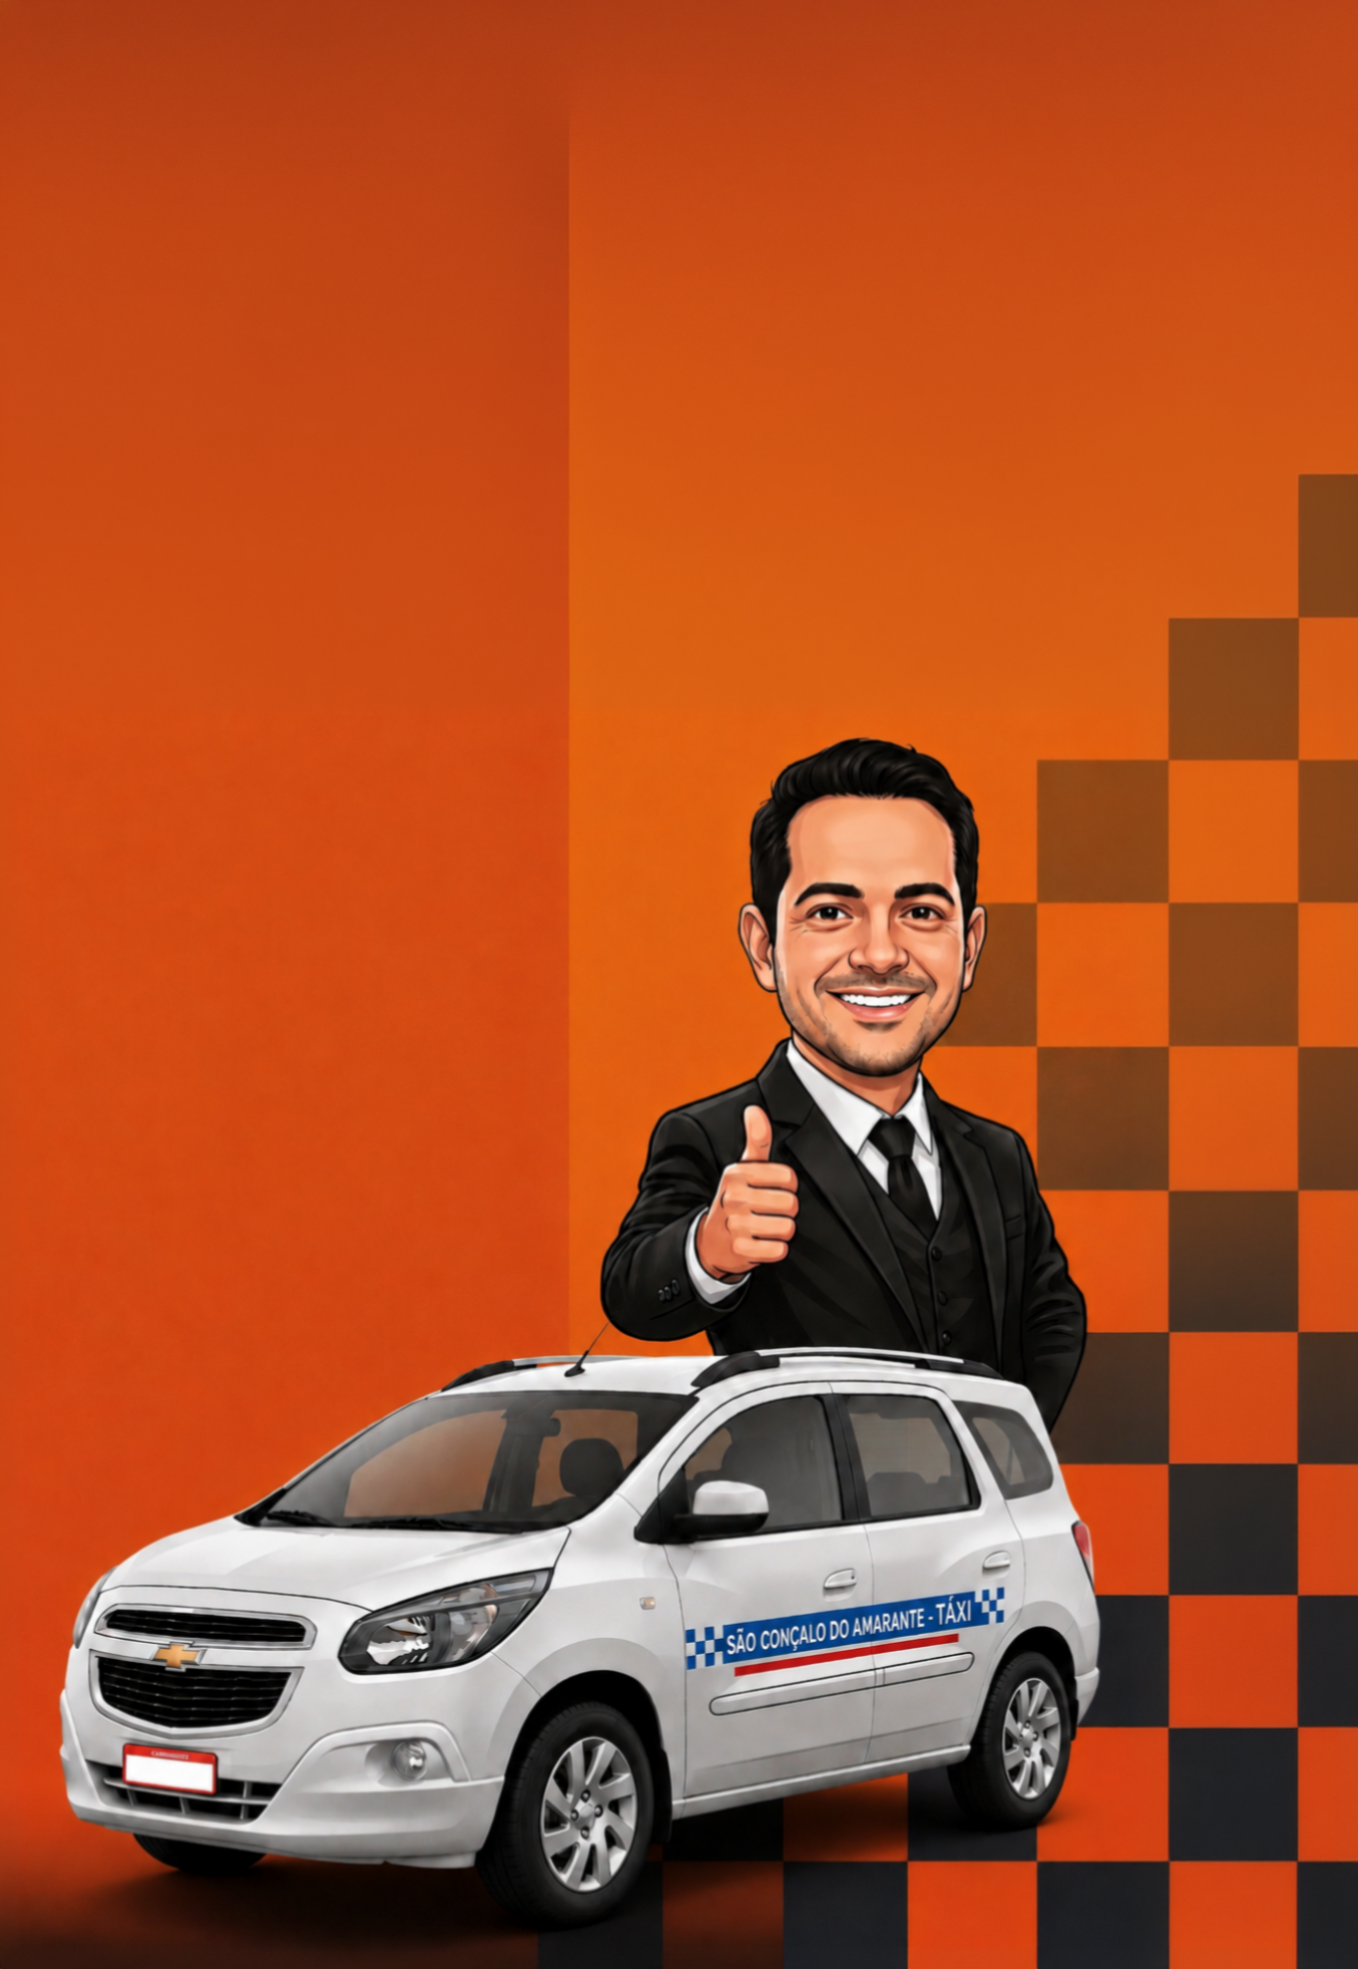
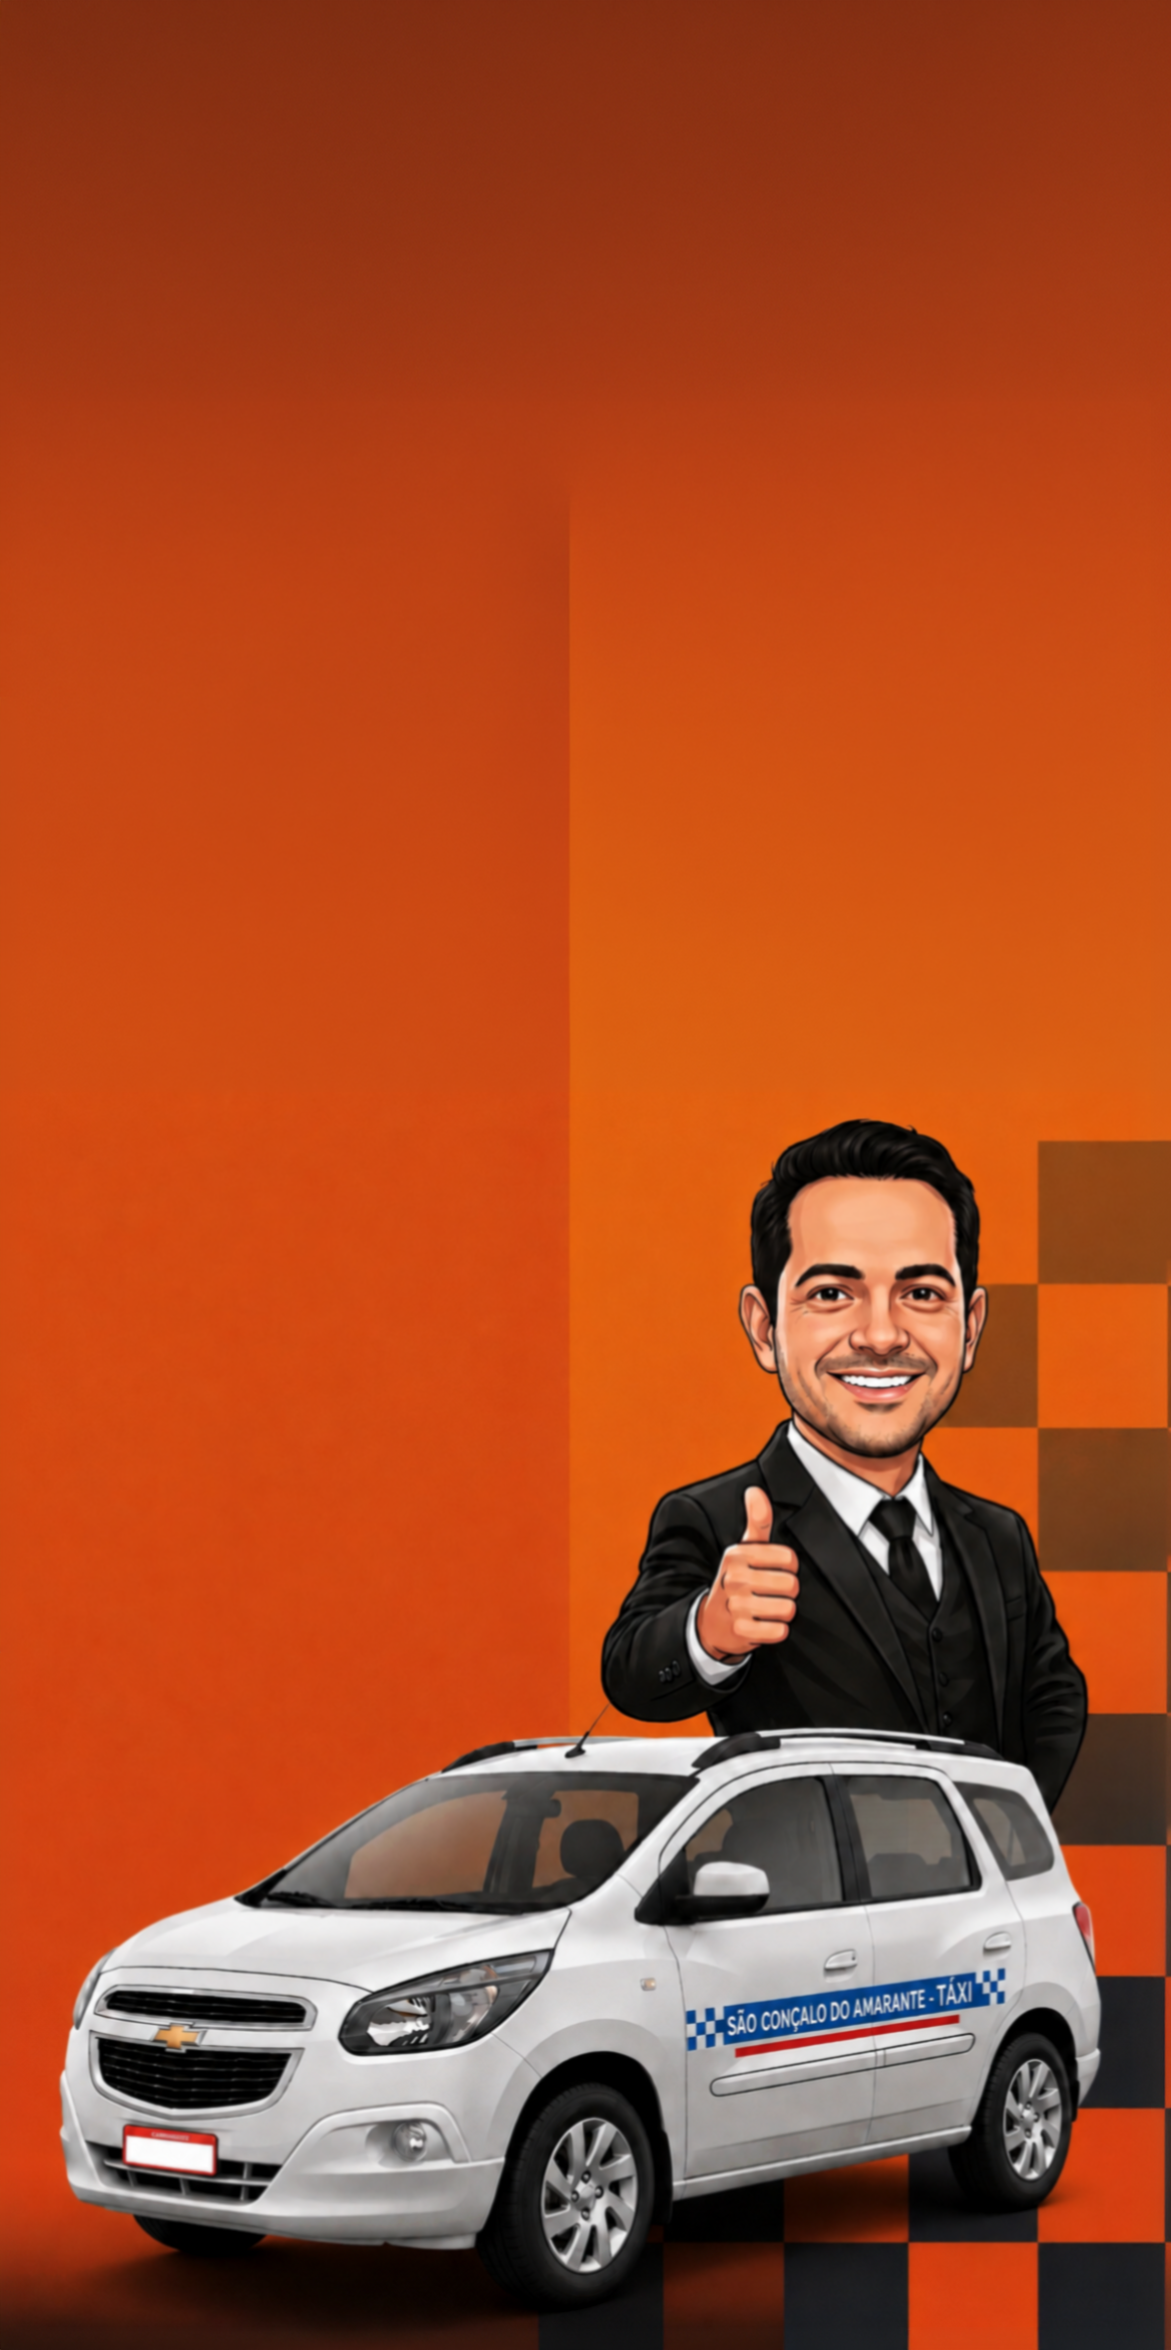
fix: update hero section background for mobile

diff --git a/src/App.css b/src/App.css
@@ -125,7 +125,7 @@ body {
   width: 100%;
 }
 
-/* BOTÃO ÚNICO DE DESTANQUE NO HEADER */
+/* BOTÃO ÚNICO DE DESTAQUE NO HEADER */
 .btn-orange-header {
   background: linear-gradient(135deg, #f97316 0%, #ea580c 100%);
   color: #ffffff;
@@ -148,7 +148,7 @@ body {
   transform: translateY(1px) scale(0.97);
 }
 
-/* HERO SECTION */
+/* HERO SECTION - CONFIGURAÇÃO DESKTOP */
 .hero-section {
   position: relative;
   min-height: 100vh;
@@ -156,9 +156,10 @@ body {
   padding-bottom: 80px;
   display: flex;
   align-items: center;
-  background-image: url('/images/glay-hero.png');
+  background-image: url('/images/Glay-hero.png');
   background-size: cover;
   background-position: center;
+  background-repeat: no-repeat;
 }
 
 .hero-overlay {
@@ -167,7 +168,7 @@ body {
   left: 0;
   width: 100%;
   height: 100%;
-  background: linear-gradient(90deg, rgba(11, 13, 15, 0.95) 0%, rgba(11, 13, 15, 0.85) 45%, rgba(11, 13, 15, 0.6) 100%);
+  background: linear-gradient(90deg, rgba(11, 13, 15, 0.95) 0%, rgba(11, 13, 15, 0.7) 45%, rgba(11, 13, 15, 0.1) 100%);
   z-index: 1;
 }
 
@@ -527,7 +528,7 @@ body {
   color: #ffffff;
 }
 
-/* WIDGET DO CARTÃO DE VISITAS FÍSICO (INSPIRADO NO DESIGN REAL DO CLIENTE) */
+/* WIDGET DO CARTÃO DE VISITAS FÍSICO (INSPIRADO DO DESIGN REAL DO CLIENTE) */
 .business-card-widget {
   background: #141a22;
   border: 1px solid #252e3c;
@@ -772,6 +773,16 @@ body {
 }
 
 @media (max-width: 768px) {
+  .hero-section {
+    background-image: url('/images/glay-heromobile.png');
+    background-position: center;
+
+  }
+
+  .hero-overlay {
+    background: linear-gradient(180deg, rgba(11, 13, 15, 0.95) 0%, rgba(11, 13, 15, 0.6) 70%, rgba(11, 13, 15, 0.0) 100%);
+  }
+
   .nav-links {
     display: none;
   }
